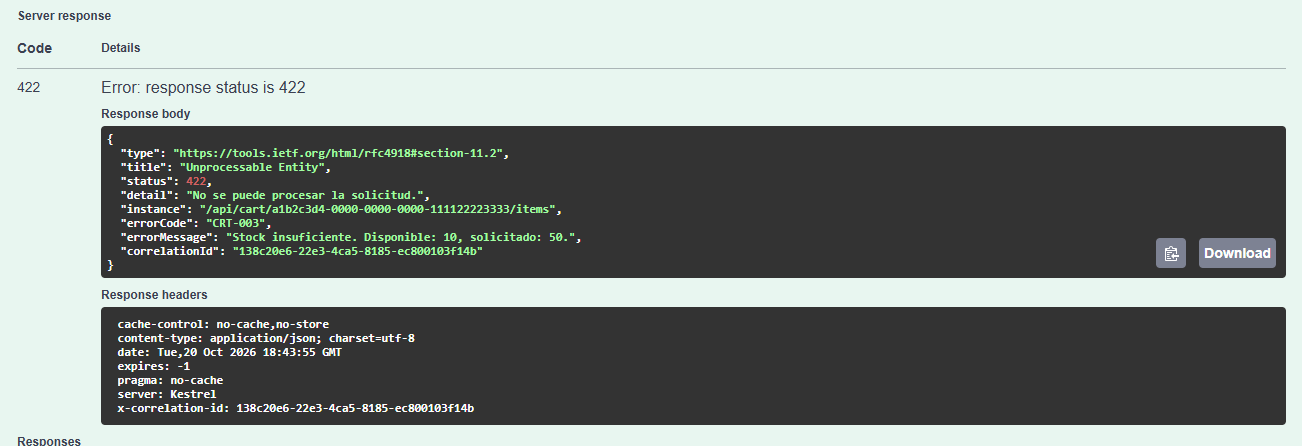
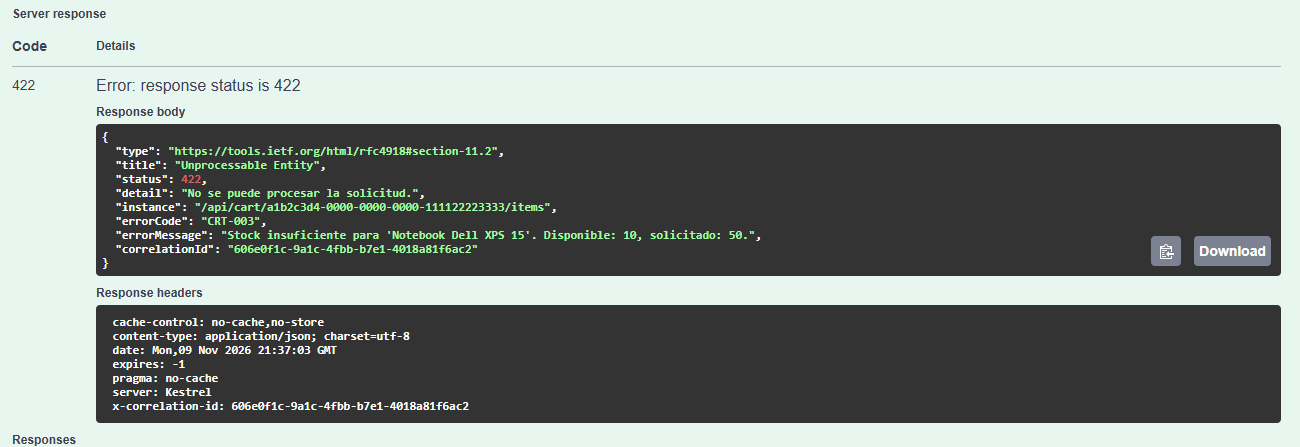
Alineo el DELETE de Cart con CRT-001, completo rodri.md y actualizo la captura de CRT-003

diff --git a/src/Cart.API/Controllers/CartController.cs b/src/Cart.API/Controllers/CartController.cs
@@ -9,9 +9,10 @@ namespace Cart.API.Controllers;
 /// </summary>
 /// <remarks>
 /// Datos de prueba: el carrito de María (a1b2c3d4-0000-0000-0000-111122223333) con la Notebook × 1
-/// y la Silla × 3. Errores: usuario sin carrito → CRT-001; producto inexistente o que no está
-/// en el carrito → CRT-002; cantidad que supera el stock (contando lo que ya hay) → CRT-003;
-/// cantidad 0 o negativa → CRT-004; GET con userId ffffffff-ffff-ffff-ffff-ffffffffffff → CRT-005 (falla simulada).
+/// y la Silla × 3. Errores: usuario sin carrito, o quitar un producto que no está en el carrito → CRT-001;
+/// producto inexistente (o, en el PUT, que no está en el carrito) → CRT-002; cantidad que supera el stock
+/// (contando lo que ya hay) → CRT-003; cantidad 0 o negativa → CRT-004;
+/// GET con userId ffffffff-ffff-ffff-ffff-ffffffffffff → CRT-005 (falla simulada).
 /// </remarks>
 [ApiController]
 [Route("api/cart")]
@@ -94,7 +95,7 @@ public class CartController : ControllerBase
     /// <param name="userId" example="a1b2c3d4-0000-0000-0000-111122223333">ID del usuario dueño del carrito.</param>
     /// <param name="productId" example="3fa85f64-5717-4562-b3fc-2c963f66afa6">ID del producto a quitar.</param>
     /// <response code="204">Producto quitado. Sin contenido.</response>
-    /// <response code="404">CRT-001: Carrito no encontrado. / CRT-002: Producto no encontrado.</response>
+    /// <response code="404">CRT-001: Carrito no encontrado.</response>
     /// <response code="500">CRT-005: Error interno al procesar el carrito.</response>
     [HttpDelete("{userId}/items/{productId}")]
     [ProducesResponseType(StatusCodes.Status204NoContent)]

diff --git a/src/Cart.API/Services/CartService.cs b/src/Cart.API/Services/CartService.cs
@@ -70,10 +70,15 @@ public class CartService : ICartService
     }
 
     // ── DELETE: quitar un producto ────────────────────────────────────────
+    // Decisión del equipo (README, 11/10): si el producto no está en el carrito → CRT-001
     public async Task QuitarItemAsync(Guid usuarioId, Guid productoId)
     {
         ShoppingCart carrito = await ObtenerCarritoExistenteAsync(usuarioId);
-        ValidarProductoEnCarrito(carrito, productoId);
+
+        if (BuscarCantidadEnCarrito(carrito, productoId) == 0)
+        {
+            throw new NotFoundException(ErrorCodes.CRT_001, "El producto no está en el carrito.");
+        }
 
         await _repository.EliminarItemAsync(usuarioId, productoId, DateTime.UtcNow);
     }
@@ -111,7 +116,7 @@ public class CartService : ICartService
         return producto;
     }
 
-    // CRT-002 (PUT y DELETE): el producto no está en este carrito
+    // CRT-002 (PUT): el producto no está en este carrito
     private static void ValidarProductoEnCarrito(ShoppingCart carrito, Guid productoId)
     {
         if (BuscarCantidadEnCarrito(carrito, productoId) == 0)

diff --git a/src/Cart.API/Services/ICartService.cs b/src/Cart.API/Services/ICartService.cs
@@ -21,7 +21,10 @@ public interface ICartService
     /// </summary>
     Task<CartResponse> ActualizarItemAsync(Guid usuarioId, Guid productoId, UpdateCartItemRequest request);
 
-    /// <summary>Quita un producto del carrito. Lanza CRT-001 o CRT-002.</summary>
+    /// <summary>
+    /// Quita un producto del carrito. Lanza CRT-001 si no hay carrito o si el producto
+    /// no está en el carrito (decisión del equipo, ver README).
+    /// </summary>
     Task QuitarItemAsync(Guid usuarioId, Guid productoId);
 
     /// <summary>Vacía el carrito. Lanza CRT-001.</summary>

diff --git a/docs/integrantes/rodri.md b/docs/integrantes/rodri.md
@@ -1,1 +1,2 @@
-Mi nombre es Rodrigo, soy un capo
+Mi nombre es Rodrigo Agustín Gómez
+Mi numero de registro es 903.550
